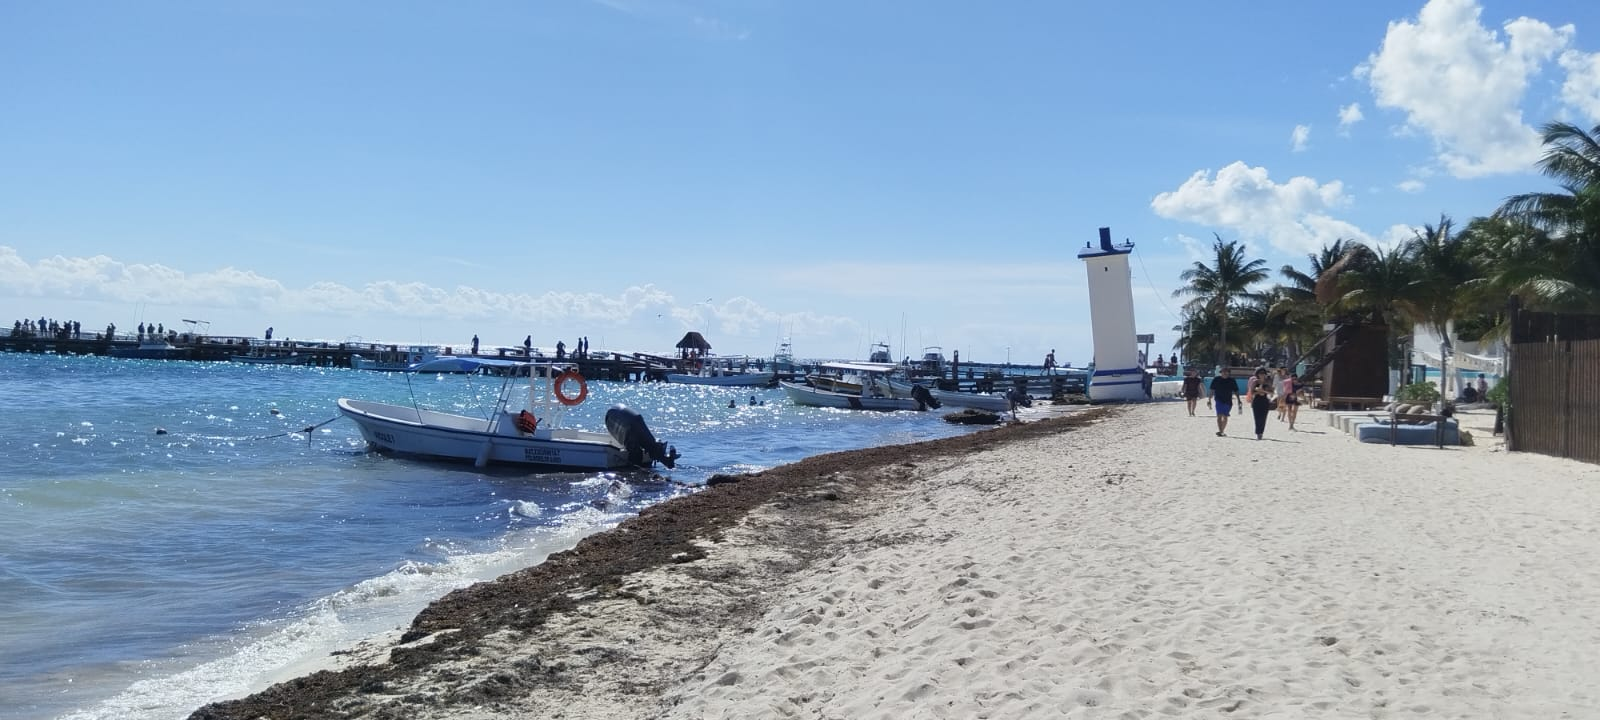
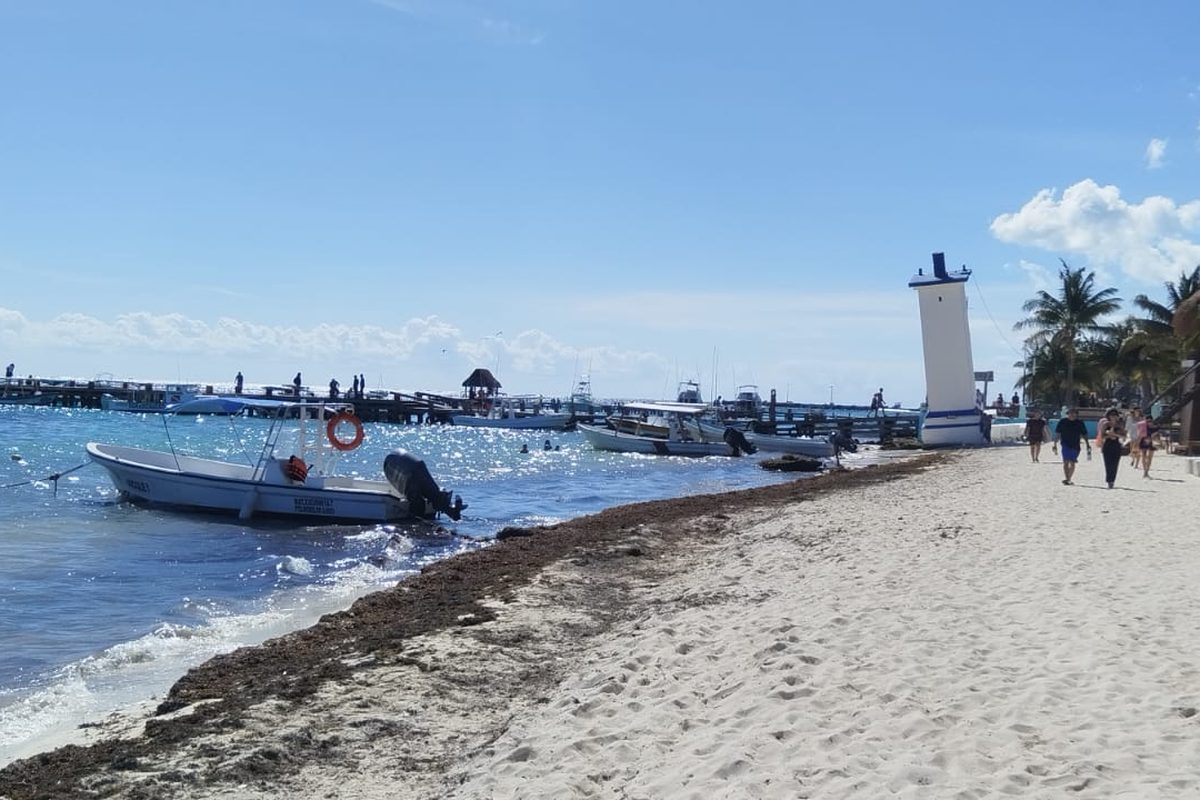
Optimize Puerto Morelos photos: resize to 1200x800, compress to JPEG
- Phare: portrait 720x1600 → 1200x800 cropped landscape (99KB → 69KB)
- Plage: 1600x720 → 1200x800 (145KB → 148KB)
- Marché: PNG 1536x1024 3.2MB → JPEG 1200x800 306KB

Claude-Session: https://claude.ai/code/session_01JYtT17dg4Ea7cScQRmR1Kg

diff --git a/puerto-morelos.html b/puerto-morelos.html
@@ -472,7 +472,7 @@
           </p>
         </div>
         <div class="rounded-3xl border border-neutral-200 overflow-hidden shadow-sm">
-          <img src="/images/puerto-morelos-marche.png" alt="Marché artisanal de Puerto Morelos" class="w-full h-full object-cover reveal-on-scroll">
+          <img src="/images/puerto-morelos-marche.jpg" alt="Marché artisanal de Puerto Morelos" class="w-full h-full object-cover reveal-on-scroll">
         </div>
       </div>
     </div>

diff --git a/es/puerto-morelos.html b/es/puerto-morelos.html
@@ -473,7 +473,7 @@
           </p>
         </div>
         <div class="rounded-3xl border border-neutral-200 overflow-hidden shadow-sm">
-          <img src="/images/puerto-morelos-marche.png" alt="Mercado artesanal de Puerto Morelos" class="w-full h-full object-cover">
+          <img src="/images/puerto-morelos-marche.jpg" alt="Mercado artesanal de Puerto Morelos" class="w-full h-full object-cover">
         </div>
       </div>
     </div>

diff --git a/en/puerto-morelos.html b/en/puerto-morelos.html
@@ -473,7 +473,7 @@
           </p>
         </div>
         <div class="rounded-3xl border border-neutral-200 overflow-hidden shadow-sm">
-          <img src="/images/puerto-morelos-marche.png" alt="Craft market in Puerto Morelos" class="w-full h-full object-cover">
+          <img src="/images/puerto-morelos-marche.jpg" alt="Craft market in Puerto Morelos" class="w-full h-full object-cover">
         </div>
       </div>
     </div>
